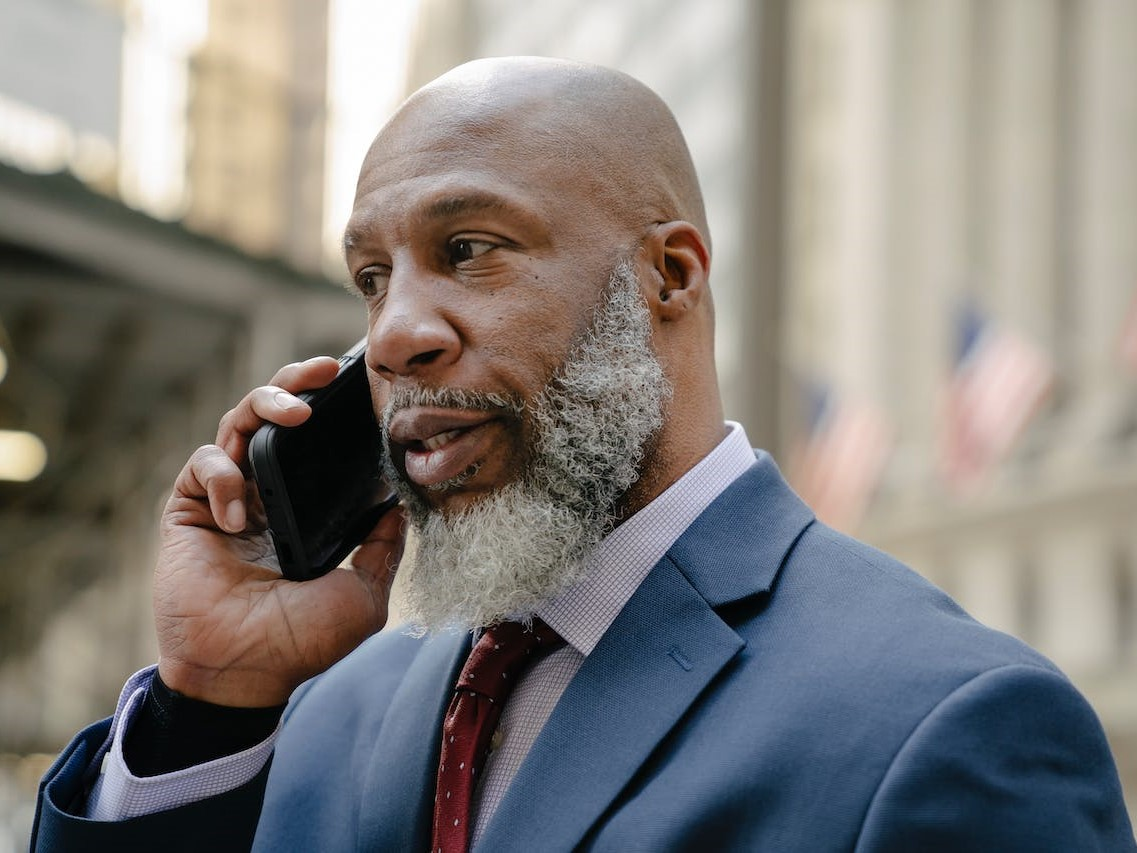
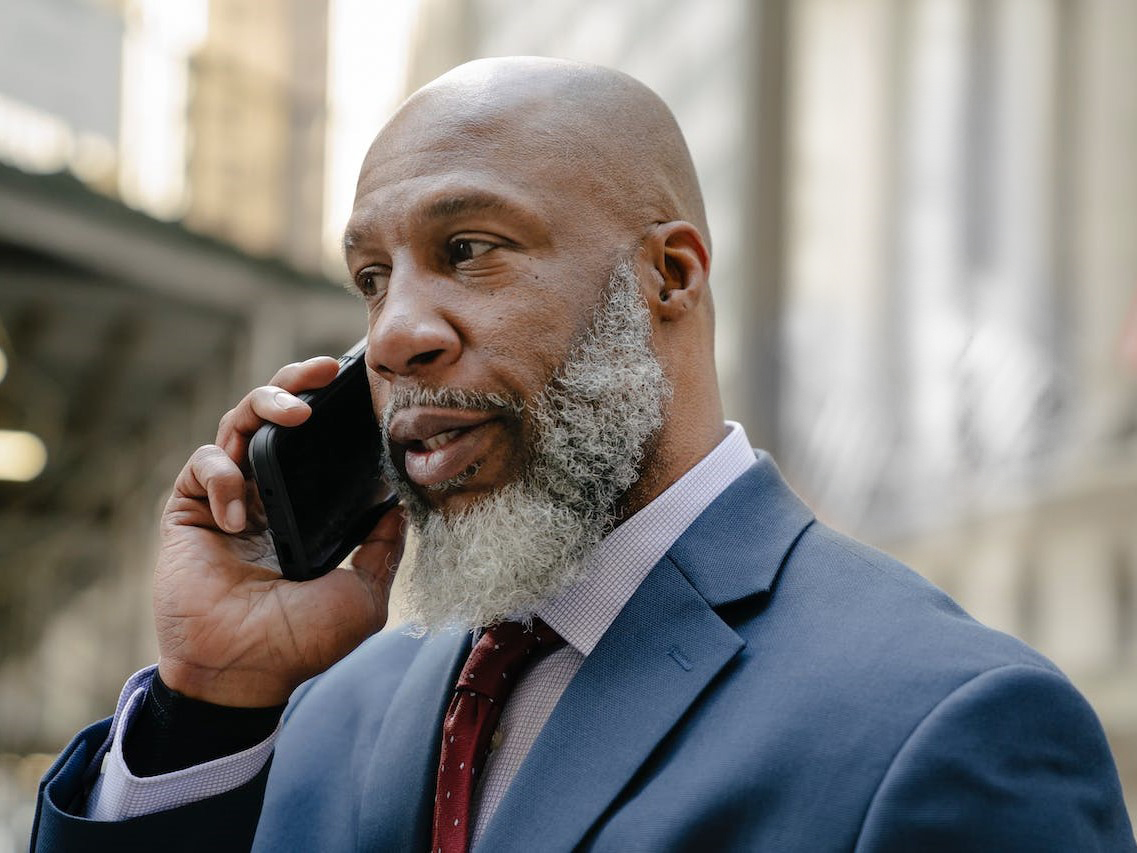
Local MLS page - brighter

Changed region(s): [[0.6772, 0.0, 0.9543, 0.6706]]

diff --git a/public/styles/index.css b/public/styles/index.css
@@ -439,7 +439,7 @@ header h3.h-h3 {
 }
 
 .guide-card p {
-    font-size: medium;
+    font-size: 1.05rem;
 
 }
 
@@ -871,3 +871,13 @@ button.guide-search-btn {
 
 
 /*  */
+
+.hiw p{
+    color: rgb(99, 99, 99);
+    font-size: 1rem !important;
+}
+
+.hiw-left{
+    display: grid;
+    align-items: center;
+}
